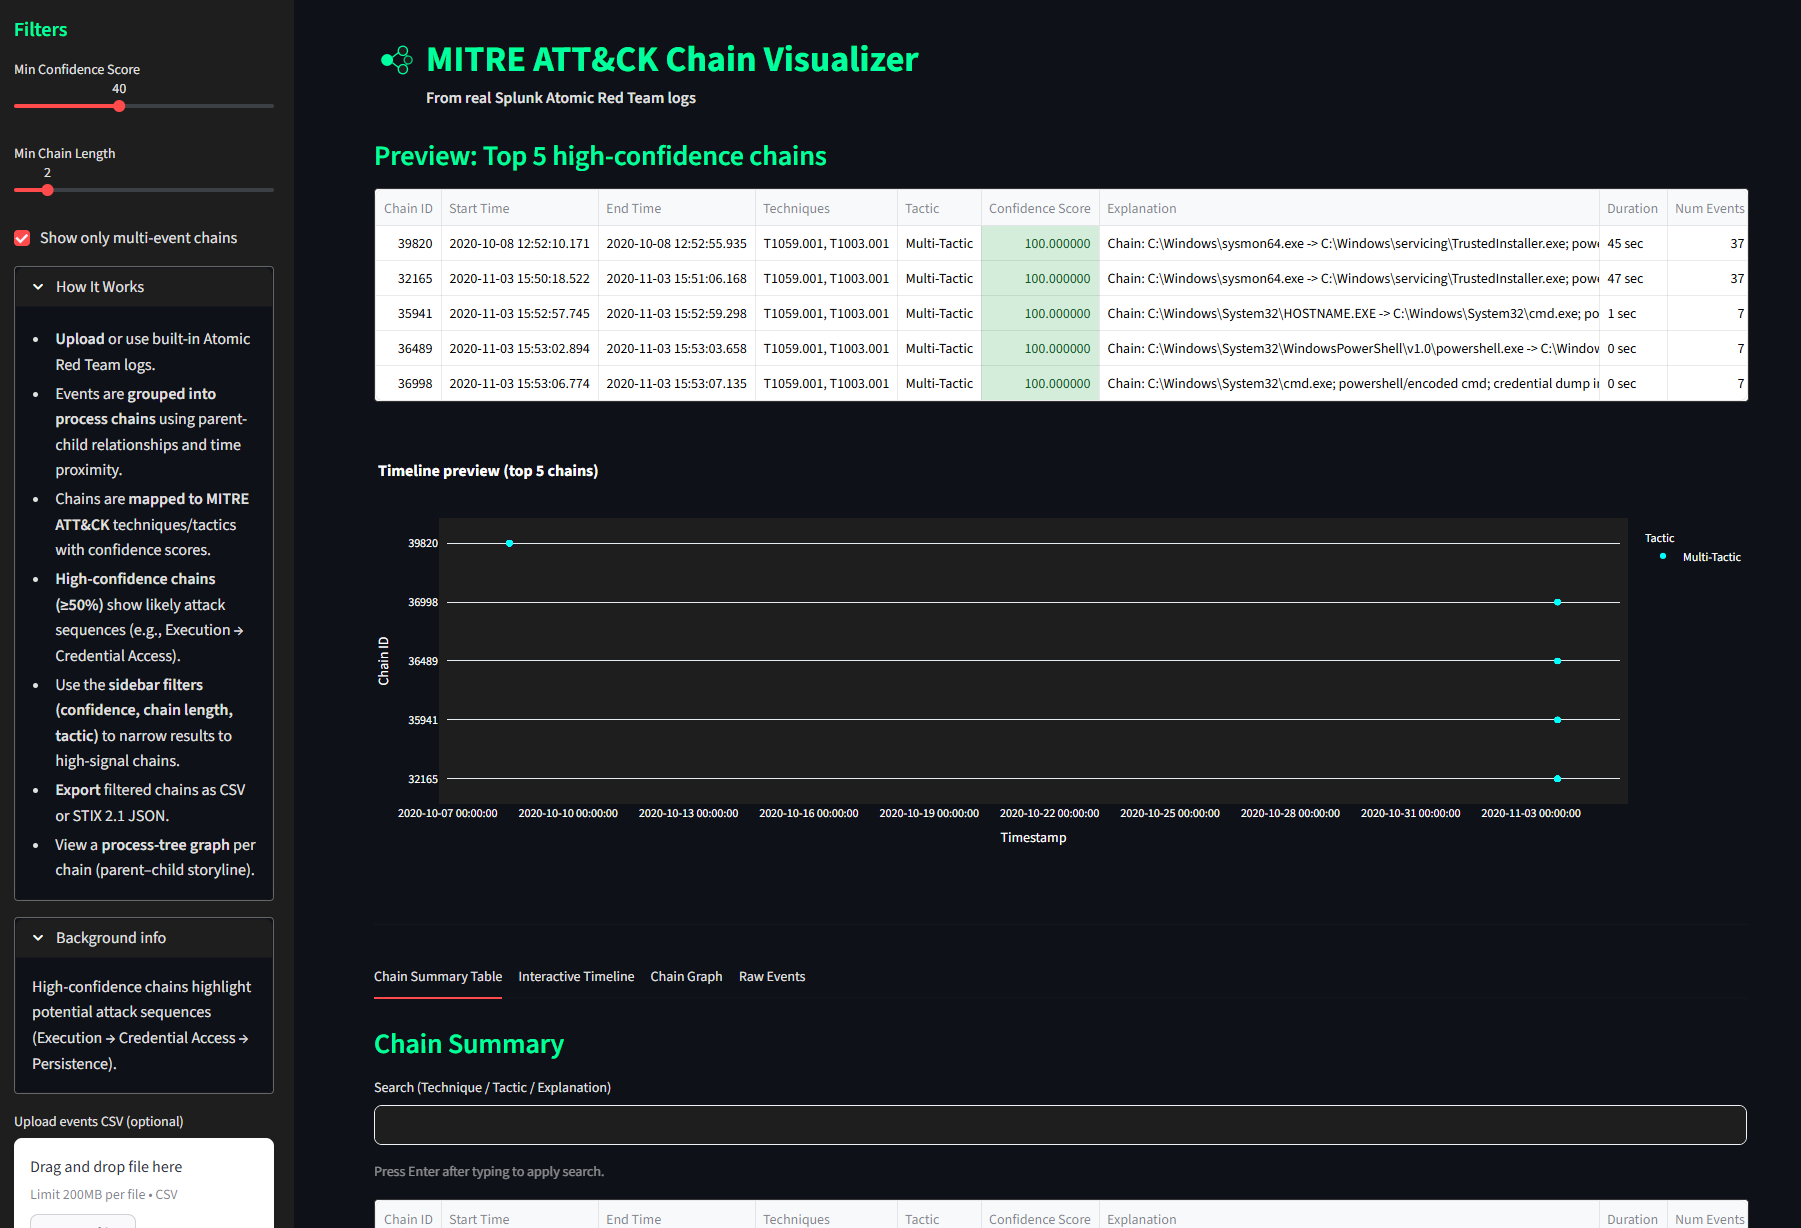
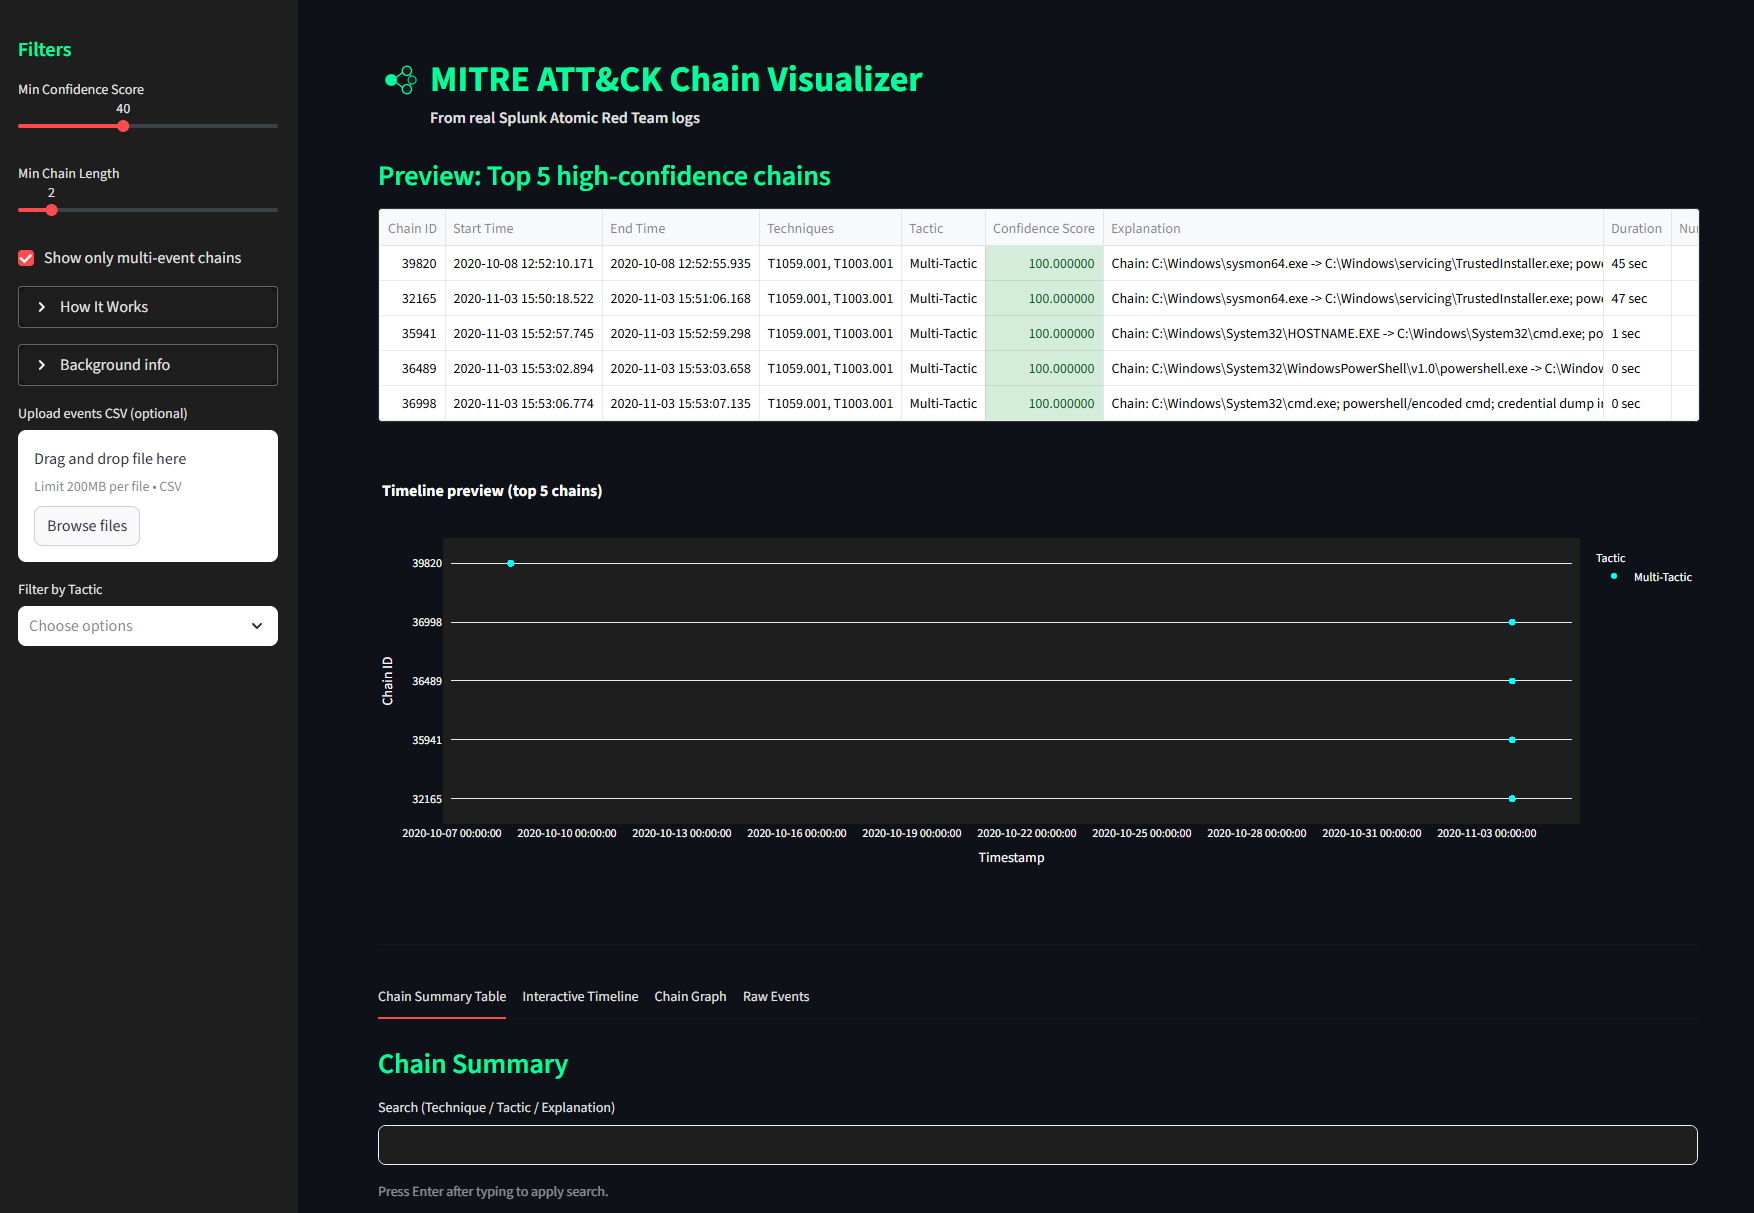
Add privacy and data-handling documentation (v1.1.1)

diff --git a/app.py b/app.py
@@ -248,7 +248,10 @@ with st.sidebar:
             "- **High-confidence chains (≥50%)** show likely attack sequences (e.g., Execution → Credential Access).\n"
             "- Use the **sidebar filters (confidence, chain length, tactic)** to narrow results to high-signal chains.\n"
             "- **Export** filtered chains as CSV or STIX 2.1 JSON.\n"
-            "- View a **process-tree graph** per chain (parent–child storyline)."
+            "- View a **process-tree graph** per chain (parent–child storyline).\n"
+            "- **Privacy:** Your data is not sent to third-party AI or analytics APIs. "
+            "Uploads are processed in this session only; on the public cloud demo, "
+            "files are handled on Streamlit’s infrastructure — use local/Docker for sensitive telemetry."
         )
     with st.expander("Background info", expanded=False):
         st.write(

diff --git a/README.md b/README.md
@@ -1,13 +1,15 @@
-<p align="center">
+<h1 align="center">
   <picture>
     <source media="(prefers-color-scheme: dark)" srcset="docs/assets/logo-dark.svg">
-    <img src="docs/assets/logo.svg" alt="MITRE ATT&amp;CK Chain Visualizer" width="480"/>
+    <img src="docs/assets/logo.svg" alt="MITRE ATT&amp;CK Chain Visualizer" width="400"/>
   </picture>
-</p>
+</h1>
 
 [![Release](https://img.shields.io/github/v/release/rvong65/mitre-attack-chain-visualizer?label=release)](https://github.com/rvong65/mitre-attack-chain-visualizer/releases)
 [![CI](https://github.com/rvong65/mitre-attack-chain-visualizer/actions/workflows/tests.yml/badge.svg)](https://github.com/rvong65/mitre-attack-chain-visualizer/actions/workflows/tests.yml)
 [![License: MIT](https://img.shields.io/badge/License-MIT-yellow.svg)](LICENSE)
+[![Analysis](https://img.shields.io/badge/Analysis-Chain%20storylines-00CC7A?style=flat-square)](https://github.com/rvong65/mitre-attack-chain-visualizer#features)
+[![Deploy](https://img.shields.io/badge/Deploy-Docker%20%7C%20local-2496ED?style=flat-square&logo=docker&logoColor=white)](https://github.com/rvong65/mitre-attack-chain-visualizer#run-with-docker)
 [![Streamlit App](https://static.streamlit.io/badges/streamlit_badge_black_white.svg)](https://mitre-attack-chain-visualizer.streamlit.app/)
 
 Process trees and event chains hide real attack behavior inside overwhelming EDR/Sysmon telemetry. This project groups related events into **scored, explainable attack chains**, maps them to MITRE ATT&CK techniques and tactics, and presents them on an interactive timeline—inspired by [SentinelOne Storyline](https://www.sentinelone.com/blog/rapid-threat-hunting-with-deep-visibility-feature-spotlight/) and [CrowdStrike Falcon](https://www.crowdstrike.com/platform/endpoint-security/falcon-insight-xdr/) behavioral graphing.
@@ -32,7 +34,7 @@ Process trees and event chains hide real attack behavior inside overwhelming EDR
 | 🏗 [Architecture & Design Choices](#architecture-design-choices) | System design and pipeline |
 | ↳ [Full architecture doc](docs/architecture.md) | Goals, system diagram, modules, deployment |
 | ↳ [Development Journey](#development-journey) | Build timeline diagram |
-| 🛡 [Safety Considerations](#safety-considerations) | Ethics and guardrails |
+| 🛡 [Safety Considerations](#safety-considerations) | Ethics, guardrails, and data privacy |
 | 🔄 [CI/CD](#cicd) | GitHub Actions and deployment |
 | 📈 [Project Status & Build Log](#project-status) | Milestone checklist |
 | 📁 [Repository Layout](#repository-layout) | File tree |
@@ -52,6 +54,7 @@ Process trees and event chains hide real attack behavior inside overwhelming EDR
 
 **Before you open the app:**
 - **Cold start:** This app runs on Streamlit Community Cloud and may go to sleep after inactivity. If you see **“Zzzz — This app has gone to sleep due to inactivity”**, click **“Yes, get this app back up!”** to wake it — anyone can do this; you don’t need to contact the maintainer. Startup may take a minute after you click.
+- **Privacy:** The app does not send your data to third-party AI, analytics, or external APIs. On this cloud demo, uploaded CSVs are processed in your session on Streamlit’s infrastructure — use [local or Docker](#run-with-docker) for sensitive telemetry. See [Privacy & data handling](#privacy-data-handling).
 
 **Note:** The live app loads pre-built polished chains from `data/processed/`. Raw Splunk Attack Data logs are not included—download them separately to rebuild from scratch. You can also upload your own Sysmon/EDR CSV via the sidebar (recommended limit ~50 MB on Streamlit Cloud free tier).
 
@@ -102,6 +105,8 @@ streamlit run app.py
 ```
 
 Open **http://localhost:8501**.
+
+<a id="run-with-docker"></a>
 
 ### 3. Docker (optional)
 
@@ -217,7 +222,8 @@ This project uses curated attack simulation logs from the [Splunk Attack Data re
 
 | Version | Highlights | Notes |
 |---------|------------|-------|
-| **[1.1.0](CHANGELOG.md#110---2026-06-22)** | Docker, STIX export, chain graph, architecture docs, branding | [Releases](https://github.com/rvong65/mitre-attack-chain-visualizer/releases) · [CHANGELOG](CHANGELOG.md#110---2026-06-22) |
+| **[1.1.1](CHANGELOG.md#111---2026-06-25)** | Privacy & data-handling documentation | [Releases](https://github.com/rvong65/mitre-attack-chain-visualizer/releases) · [CHANGELOG](CHANGELOG.md#111---2026-06-25) |
+| **[1.1.0](CHANGELOG.md#110---2026-06-22)** | Docker, STIX export, chain graph, architecture docs, branding | [CHANGELOG](CHANGELOG.md#110---2026-06-22) |
 | **[1.0.0](CHANGELOG.md#100---2026-06-18)** | MVP pipeline, Streamlit Cloud, CI, polished demo data | Public since 2026-06-08; tagged 2026-06-18 · [CHANGELOG](CHANGELOG.md#100---2026-06-18) |
 
 ---
@@ -259,6 +265,21 @@ Pivoted from per-event ML (RandomForest, SMOTE) to chain-level detection after a
 | **Validate untrusted uploads** | File size limits (~50 MB guidance), parse error handling, schema checks, and fallback to built-in demo data on failure |
 | **Protect sensitive telemetry** | Do not upload production EDR/SIEM exports to public Streamlit deployments without authorization; raw logs are not committed to the repo |
 
+<a id="privacy-data-handling"></a>
+
+### Privacy & data handling
+
+This application **does not integrate third-party AI, analytics, or external APIs** that receive your uploaded data. Processing (filtering, charts, CSV/STIX export) runs in the Streamlit Python session only.
+
+| Data you submit | Where it may be sent | Notes |
+|-----------------|----------------------|-------|
+| **Built-in demo CSVs** | Nowhere (read from the repo/image) | Default view uses committed polished chains in `data/processed/` |
+| **CSV you upload — local or Docker** | Stays on your machine | Parsed in memory; exports download to your browser only |
+| **CSV you upload — Streamlit Cloud** | [Streamlit Community Cloud](https://streamlit.io/cloud) hosting | Session-scoped processing on Streamlit’s servers; **not** forwarded to this app’s code as outbound API calls |
+| **CSV / STIX exports you download** | Your device only | Generated in-session; you control where files are saved |
+
+**Not in scope of this app:** Streamlit’s own platform telemetry, browser/CDN delivery of Plotly/Streamlit assets, or your organization’s network policies. For production or classified telemetry, run locally or via Docker.
+
 ---
 
 <a id="cicd"></a>
@@ -292,8 +313,9 @@ Pivoted from per-event ML (RandomForest, SMOTE) to chain-level detection after a
 | **8 — Deploy** | Upload validation, Streamlit Cloud | ✅ |
 | **9 — CI** | GitHub Actions pytest workflow | ✅ |
 | **10 — v1.1** | Docker, STIX export, chain graph, docs, branding, releases | ✅ |
+| **11 — v1.1.1** | Privacy & data-handling documentation (README, app, architecture) | ✅ |
 
-**Current status:** ✅ v1.1.0 — Docker, STIX export, process-tree graph, architecture docs, and formal changelog/releases.
+**Current status:** ✅ v1.1.1 — privacy documentation; v1.1.0 features (Docker, STIX, chain graph) on Streamlit Cloud.
 
 ---
 

diff --git a/docs/architecture.md b/docs/architecture.md
@@ -184,13 +184,26 @@ flowchart LR
 | **STIX export scope** | MVP bundles reference MITRE technique IDs and chain metadata — not full process/file observables or raw cmdlines as STIX objects |
 | **Supply chain** | Runtime deps pinned in `requirements.txt`; Docker and CI rebuild on every push |
 
+### Privacy & data handling
+
+The application code does **not** call external APIs with user-supplied data (no LLM, analytics SDKs, or SIEM upload integrations). Uploaded CSVs are parsed in the Streamlit session; exports are generated for browser download only.
+
+| Concern | Behavior |
+|---------|----------|
+| **Local / Docker runtime** | Uploads and processing stay on the operator’s machine (or container); no app-level outbound data sharing |
+| **Streamlit Cloud runtime** | Uploads exist in the hosted session on Streamlit’s infrastructure; users should avoid production telemetry on the public demo |
+| **Built-in demo data** | Loaded from committed polished CSVs in the repository or Docker image |
+| **STIX / CSV export** | Artifacts are built in-session and downloaded by the user; not auto-uploaded anywhere |
+| **Third-party services** | No MITRE, Splunk, or AI vendor APIs receive user files from this codebase; standard browser/CDN loading of Streamlit/Plotly assets may still apply |
+
 ---
 
 ## Version
 
-**Document version:** v1.1.0 (aligned with [CHANGELOG.md](../CHANGELOG.md#110---2026-06-18))
+**Document version:** v1.1.1 (privacy documentation). See [README → Version history](../README.md#version-history).
 
 | Release | Architecture highlights |
 |---------|-------------------------|
+| **1.1.1** | Privacy & data-handling documentation (README, app sidebar, architecture) |
 | **1.1.0** | Docker topology, STIX export path, chain graph, split architecture doc, branding assets |
 | **1.0.0** | Chain pipeline, Streamlit MVP, polished demo data, pytest CI |

diff --git a/CHANGELOG.md b/CHANGELOG.md
@@ -6,6 +6,13 @@ Release dates reflect when a version was **tagged on GitHub** (Release), not nec
 
 ## [Unreleased]
 
+## [1.1.1] - 2026-06-25
+
+### Added
+
+- **Privacy & data** disclosures in README (Safety section), architecture docs, and Streamlit sidebar expander (How it works)
+- Live Demo privacy note for public Streamlit Cloud demo
+
 ## [1.1.0] - 2026-06-22
 
 ### Added
@@ -42,3 +49,8 @@ First **tagged** release. The repository and Streamlit app were **public since 2
 - CSV upload validation and export
 - Polished demo data (~12K events / ~11K chains) committed for clone-and-run
 - Live deployment on [Streamlit Cloud](https://mitre-attack-chain-visualizer.streamlit.app/)
+
+[Unreleased]: https://github.com/rvong65/mitre-attack-chain-visualizer/compare/v1.1.1...HEAD
+[1.1.1]: https://github.com/rvong65/mitre-attack-chain-visualizer/compare/v1.1.0...v1.1.1
+[1.1.0]: https://github.com/rvong65/mitre-attack-chain-visualizer/compare/v1.0.0...v1.1.0
+[1.0.0]: https://github.com/rvong65/mitre-attack-chain-visualizer/releases/tag/v1.0.0
